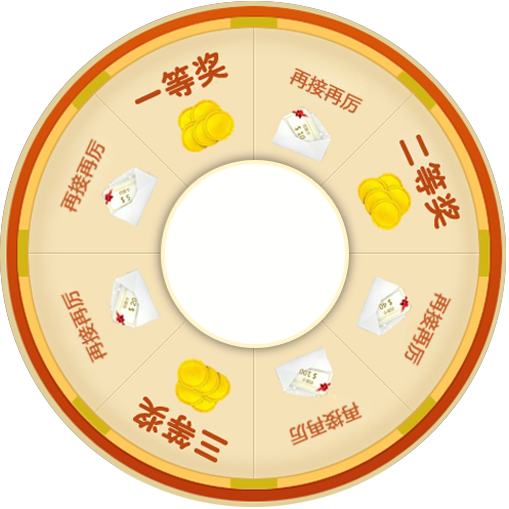
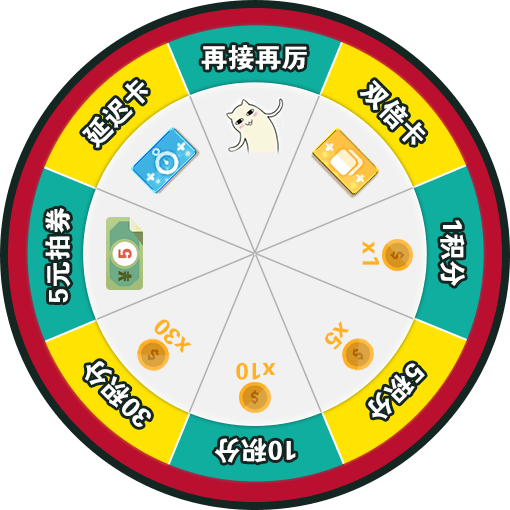
转盘抽奖

diff --git a/protected/views/turnTable/index.php b/protected/views/turnTable/index.php
@@ -7,14 +7,14 @@
 <meta name="apple-mobile-web-app-status-bar-style" content="black">
 <title>微趣拍-转盘抽奖</title>
 <style type="text/css">
-.container{width:320px;margin:50px auto;position:relative;}
+.container{width: 320px; height:300px; position: absolute; margin: -150px 0px 0px -150px;left: 50%; top: 50%;}
 #Turntable{width:300px; height:300px; background:url(images_table/ly-plate.png) no-repeat;background-size: contain;}
-#btn{position:absolute; top: 30px; left: 0px;bottom: 0px;right: 19px; width: 120px;width:120px;margin:auto;}
+#btn{position:absolute; top: 75px; left: 10px;bottom: 0px;right: 0px; width: 120px;width:120px;margin:auto;}
 #btn img{cursor:pointer}
 </style>
-<script type="text/javascript" src="<?php Yii::app()->request->baseUrl;?>assets/Turntable/jquery-1.11.0.min.js"></script>
-<script type="text/javascript" src="<?php Yii::app()->request->baseUrl;?>assets/Turntable/jQueryRotate.2.2.js"></script>
-<script type="text/javascript" src="<?php Yii::app()->request->baseUrl;?>assets/Turntable/jquery.easing.min.js"></script>
+<script type="text/javascript" src="<?php Yii::app()->request->baseUrl;?>js/jquery-1.11.0.min.js"></script>
+<script type="text/javascript" src="<?php Yii::app()->request->baseUrl;?>js/jQueryRotate.2.2.js"></script>
+<script type="text/javascript" src="<?php Yii::app()->request->baseUrl;?>js/jquery.easing.min.js"></script>
 <script type="text/javascript">
 var token = "<?php echo $token ?>";
 
@@ -38,49 +38,31 @@ $(function(){
                 }
                 //随机赋值
                 if(data.award_id==1){
-                    turntable(1,200,'恭喜您抽中双倍卡');
+                    turntable(1,315,'恭喜您抽中双倍卡');
                 }
                 if(data.award_id==2){
-                    turntable(2,110,'恭喜您抽中延迟卡');
+                    turntable(2,45,'恭喜您抽中延迟卡');
                 }
                 if(data.award_id==3){
-                    turntable(3,22,'恭喜您抽中5元拍券');
+                    turntable(3,90,'恭喜您抽中5元拍券');
                 }
                 if(data.award_id==4){
-                    turntable(4,67,'恭喜您抽中30积分');
+                    turntable(4,135,'恭喜您抽中30积分');
                 }
                 if(data.award_id==5){
-                    turntable(5,155,'恭喜您抽中10积分');
+                    turntable(5,180,'恭喜您抽中10积分');
                 }
                 if(data.award_id==6){
-                    turntable(6,245,'恭喜您抽中5积分');
+                    turntable(6,225,'恭喜您抽中5积分');
                 }
                 if(data.award_id==7){
-                    turntable(7,-20,'恭喜您抽中1积分');
+                    turntable(7,270,'恭喜您抽中1积分');
                 }
                 if(data.award_id==8 || data.award_id==0){
-                   turntable(8,295,'很遗憾，这次您未抽中奖');
+                   turntable(8,360,'很遗憾，这次您未抽中奖');
                 }
             }
         });
-//
-       //  var data = [1,2,3,4];
-       //  data = data[Math.floor(Math.random()*data.length)];
-       // // alert(data);
-       //  if(data==1){
-       //      turntable(1,200,'恭喜您抽中的一等奖');
-       //  }
-       //  if(data==2){
-       //      turntable(2,110,'恭喜您抽中的二等奖');
-       //  }
-       //  if(data==3){
-       //      turntable(3,-20,'恭喜您抽中的三等奖');
-       //  }
-       //  if(data==4){
-       //      var angle = [22,67,155,245,295];
-       //      angle = angle[Math.floor(Math.random()*angle.length)]
-       //      turntable(0,angle,'很遗憾，这次您未抽中奖')
-       //  }
 
     })
     var turntable=function(id,num,text){
@@ -102,7 +84,7 @@ $(function(){
 <body>
 <div class="container">
     <div id="Turntable"></div>
-    <div id="btn"><img src="images_table/start.png" id="startbtn" width="120" /></div>
+    <div id="btn"><img src="images_table/start.png" id="startbtn" width="90" /></div>
 </div>
 </body>
 </html>

diff --git a/protected/controllers/TurnTableController.php b/protected/controllers/TurnTableController.php
@@ -12,8 +12,8 @@ class TurnTableController extends Controller
 
    //ajax主方法
    public function actionMain(){
-    //$this->uid = $this->initUser($_GET['token']);
-    $this->uid=100001;
+    $this->uid = $this->initUser($_GET['token']);
+    //$this->uid=100001;
     if(!$this->uid){
       $data['err'] = 1;
        echo json_encode($data); 
@@ -48,8 +48,8 @@ class TurnTableController extends Controller
 
  //算法
   private function doLottery() {
-   // $this->uid=$this->initUser($_GET['token']);
-    $this->uid=100001;
+    $this->uid=$this->initUser($_GET['token']);
+    //$this->uid=100001;
     $defaultAwardId=0;
     $defaultReturnId=0;
 
